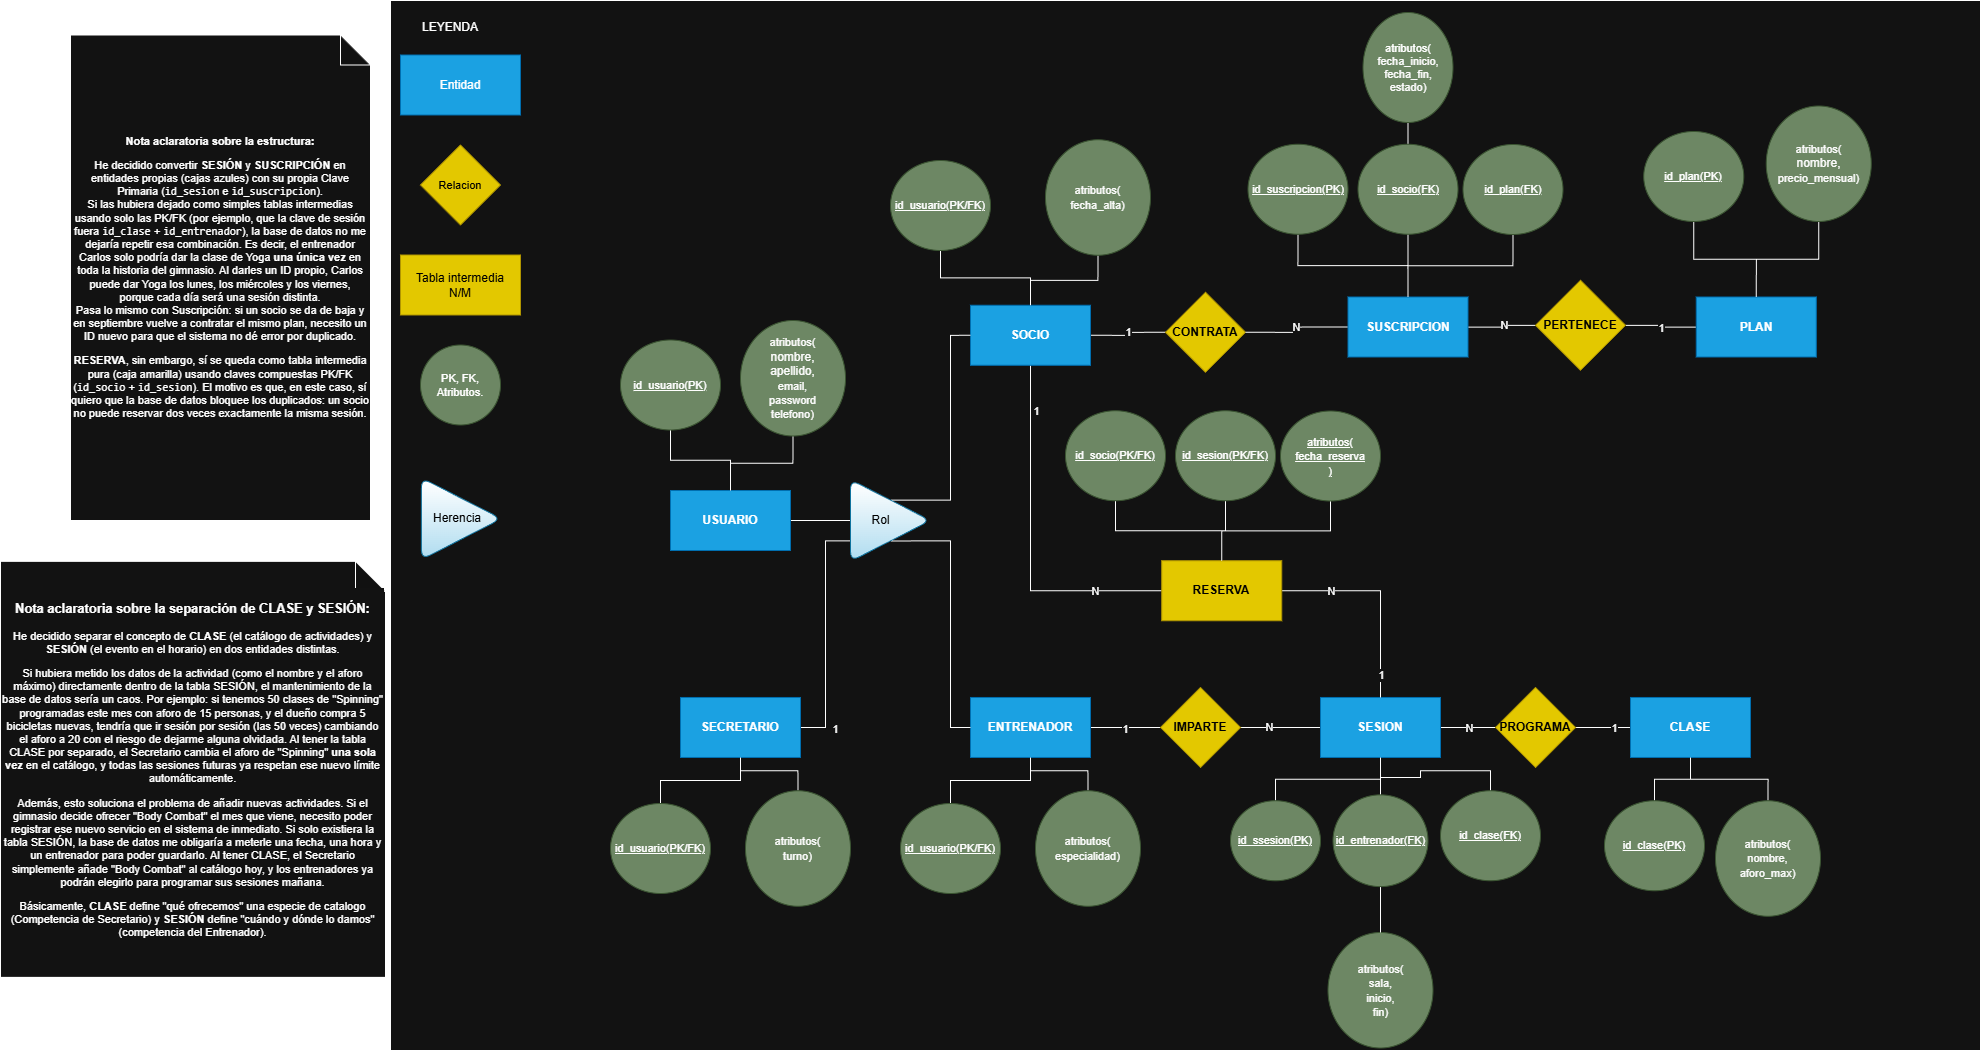
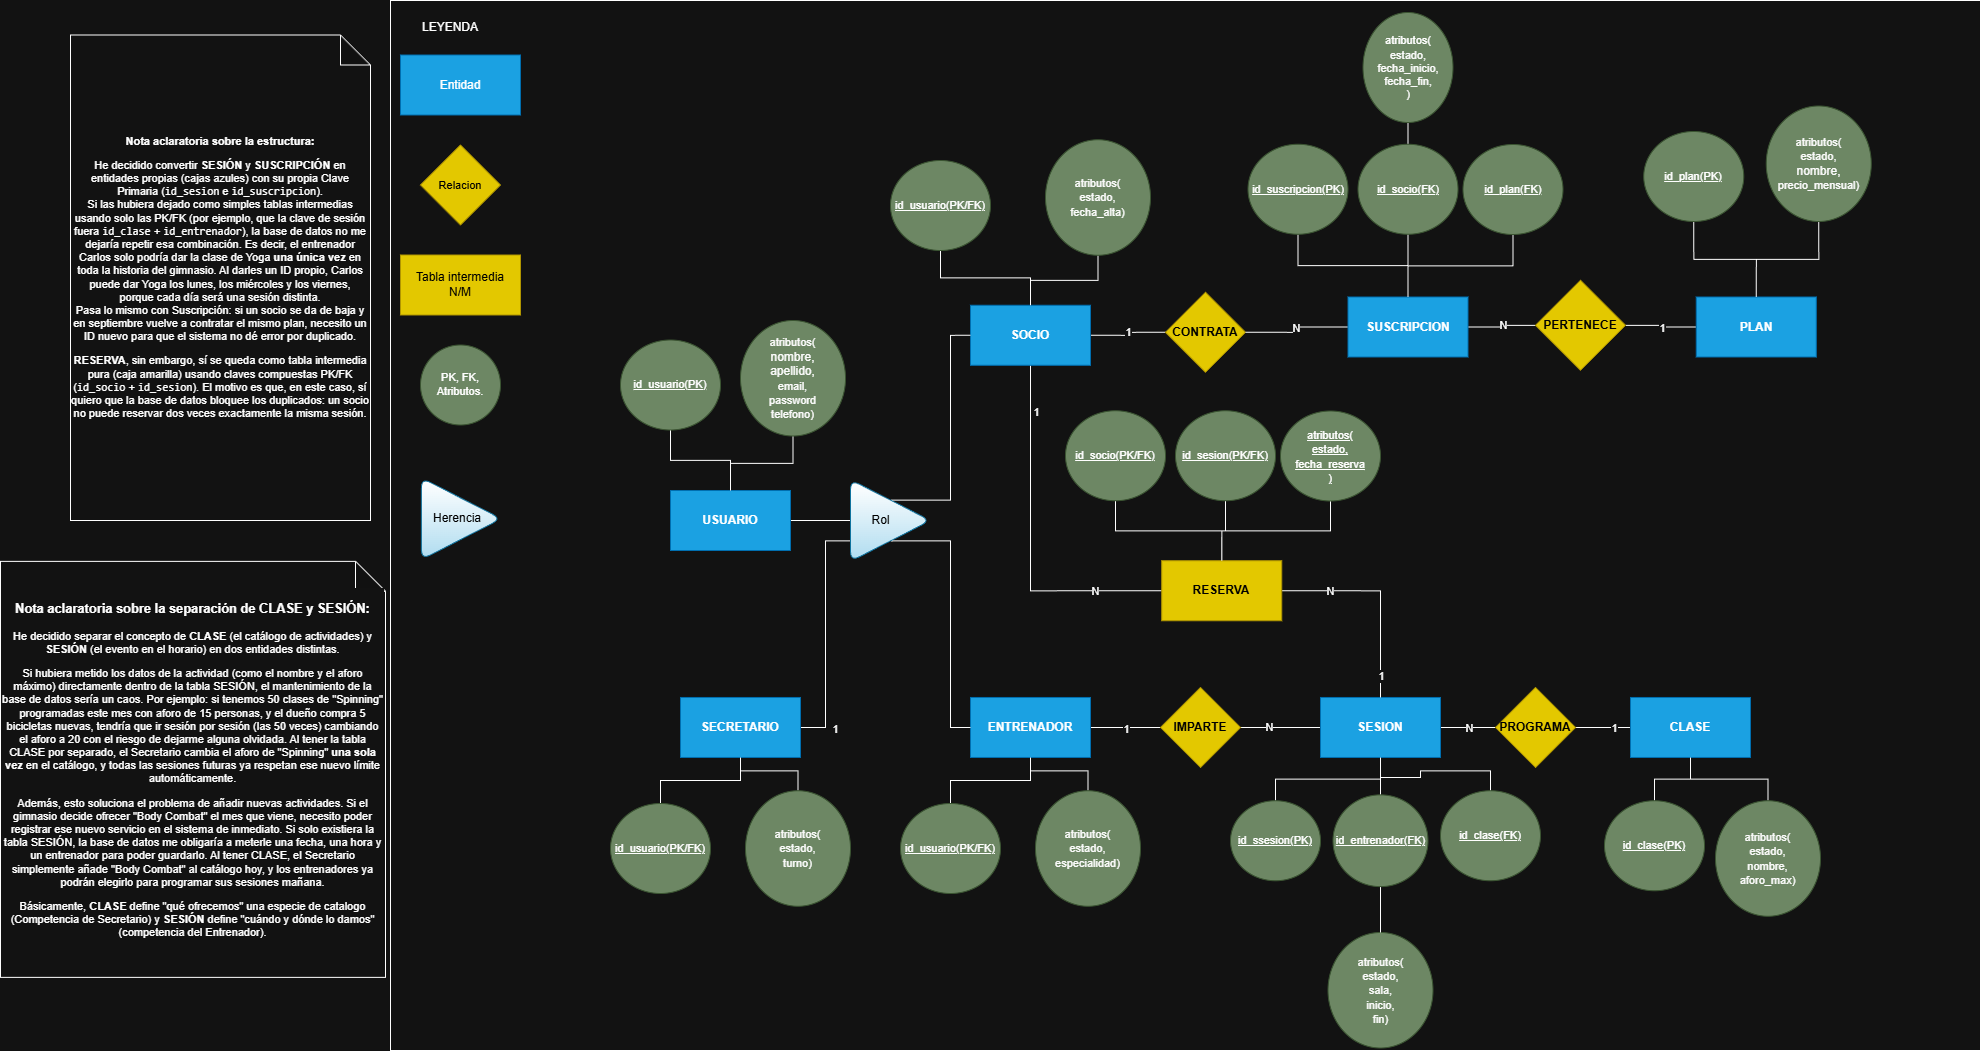
General: sincronización de BD, conexión Singleton y modelo Usuario.
- docs(sql): Sincronizados diagramas ER y Relacional con estado.
-sql(db): Actualizada BD en SUPABASE con los nuevos atributos.
- docs(uml): Actualizado diagrama de clases y añadido diagrama de estados para Suscripción.
- src(ConexionDB): Implementado patrón Singleton en ConexionDB para optimizar peticiones a Supabase.
- src(SchemDB): Creado diccionario de constantes SchemDB.
- src(model): Creado enum EstadoUsuario y actualizado Usuario.

diff --git a/src/GimnasioApp/src/main/java/database/ConexionDB.java b/src/GimnasioApp/src/main/java/database/ConexionDB.java
@@ -7,19 +7,57 @@ import java.sql.SQLException;
 public class ConexionDB {
 
     // Datos de mi base de datos en Supabase
+    // No sabia si guardarla aqui o en el metodo , pero lo veia mas ordenado asi. Y como el metodo era static creo que era mas logico
+    // crearlas static para que no tenga que "llamarlas" cada vez que llamamos al metodo.
+
     private static final String URL = "jdbc:postgresql://aws-1-eu-west-1.pooler.supabase.com:5432/postgres";
     private static final String USUARIO = "postgres.ubgynnvqllswogxuovvw";
     private static final String PASSWORD = "ProyectoIntermodularDAM2026!";
 
+    // La variable estática que guardará la ÚNICA conexión (Patrón Singleton)
+    private static Connection conexion;
+
+
+        //Aqui creamos la conexion con SUPABASE
+    private static void crearConexion() {
+        try {
+            // Intentamos abrir el canal con Supabase
+            conexion = DriverManager.getConnection(URL, USUARIO, PASSWORD);
+            System.out.println("🛜 Conexión con Supabase establecida correctamente (Singleton)");
+
+        } catch (SQLException e) {
+            System.out.println("❌ ERROR: No se ha podido conectar con la base de datos.");
+            System.out.println(e.getMessage());
+        }
+    }
+
+    // 2. Método público para pedir la conexión a la base de datos
+    public static Connection conectar() {
+        // Solo si la conexión es nula (no existe aún), la creamos
+        if (conexion == null) {
+            crearConexion();
+        }
+        // Si ya existe, simplemente devolvemos la que está abierta
+        return conexion;
+    }
+
+
+
+    // Asi estaba hecho antes de ver la forma de Borja, el encasuplamiento es peor, y perdemos el principio de responsabilidad unica. Ahora cada metodo tiene su funcion.
+// La variable estática que guarda la conexión única
+  /*  private static Connection conexion = null;
     // Uso 'static' para poder llamar a este metodo desde cualquier DAO
     // escribiendo simplemente ConexionDB.conectar()
     public static Connection conectar() {
-        Connection conexion = null;
 
+        // 1. Comprobamos si la conexión está vacía o si por algún casual se ha cerrado
         try {
-            // Intentamos abrir el canal con Supabase usando mis credenciales
-            conexion = DriverManager.getConnection(URL, USUARIO, PASSWORD);
+            if (conexion == null || conexion.isClosed()) {
 
+                // Intentamos abrir el canal con Supabase usando mis credenciales
+                conexion = DriverManager.getConnection(URL, USUARIO, PASSWORD);
+                System.out.println("🛜 Conexión con base de datos establecida (Nueva apertura)");
+            }
         } catch (SQLException e) {
             // Si salta esto, suele ser por falta de internet o contraseñas mal puestas
             System.out.println("❌ ERROR: No se ha podido conectar con la base de datos.");
@@ -28,6 +66,8 @@ public class ConexionDB {
 
         // Si todo ha ido bien, devuelve la conexion lista para usarse
         System.out.println("🛜Conexion con base de datos establecida");
+        // 2. PASE LO QUE PASE, devolvemos la conexión (ya sea recién creada o la que ya teníamos)
         return conexion;
-    }
+    }*/
+
 }

diff --git a/src/GimnasioApp/src/main/java/database/SchemDB.java b/src/GimnasioApp/src/main/java/database/SchemDB.java
@@ -1,0 +1,68 @@
+package database;
+
+public interface SchemDB {
+
+    // ================= TABLAS =================
+    String TAB_USUARIO = "usuario";
+    String TAB_SOCIO = "socio";
+    String TAB_ENTRENADOR = "entrenador";
+    String TAB_SECRETARIO = "secretario";
+    String TAB_CLASE = "clase";
+    String TAB_SESION = "sesion";
+    String TAB_PLAN = "plan";
+    String TAB_SUSCRIPCION = "suscripcion";
+    String TAB_RESERVA = "reserva";
+
+    // ================= COLUMNAS USUARIO =================
+    String COL_USUARIO_ID = "id_usuario";
+    String COL_USUARIO_ESTADO = "estado";
+    String COL_USUARIO_NOMBRE = "nombre";
+    String COL_USUARIO_APELLIDO = "apellido";
+    String COL_USUARIO_EMAIL = "email";
+    String COL_USUARIO_PASSWORD = "password";
+    String COL_USUARIO_TELEFONO = "telefono";
+
+    // ================= COLUMNAS SOCIO =================
+    String COL_SOCIO_FECHA_ALTA = "fecha_alta";
+
+    // ================= COLUMNAS ENTRENADOR =================
+    String COL_ENTRENADOR_ESPECIALIDAD = "especialidad";
+
+    // ================= COLUMNAS SECRETARIO =================
+    String COL_SECRETARIO_TURNO = "turno";
+
+    // ================= COLUMNAS CLASE =================
+    String COL_CLASE_ID = "id_clase";
+    String COL_CLASE_NOMBRE = "nombre";
+    String COL_CLASE_ESTADO = "estado";
+    String COL_CLASE_AFORO = "aforo_max";
+
+    // ================= COLUMNAS SESION =================
+    String COL_SESION_ID = "id_sesion";
+    String COL_SESION_ENTRENADOR = "id_entrenador";
+    String COL_SESION_CLASE = "id_clase";
+    String COL_SESION_ESTADO = "estado";
+    String COL_SESION_SALA = "sala";
+    String COL_SESION_INICIO = "inicio";
+    String COL_SESION_FIN = "fin";
+
+    // ================= COLUMNAS PLAN =================
+    String COL_PLAN_ID = "id_plan";
+    String COL_PLAN_ESTADO = "estado";
+    String COL_PLAN_NOMBRE = "nombre";
+    String COL_PLAN_PRECIO = "precio_mensual";
+
+    // ================= COLUMNAS SUSCRIPCION =================
+    String COL_SUSC_ID = "id_suscripcion";
+    String COL_SUSC_PLAN = "id_plan";
+    String COL_SUSC_SOCIO = "id_socio";
+    String COL_SUSC_ESTADO = "estado";
+    String COL_SUSC_INICIO = "fecha_inicio";
+    String COL_SUSC_FIN = "fecha_fin";
+
+    // ================= COLUMNAS RESERVA =================
+    String COL_RES_SOCIO = "id_socio";
+    String COL_RES_SESION = "id_sesion";
+    String COL_RES_ESTADO = "estado";
+    String COL_RES_FECHA = "fecha_reserva";
+}

diff --git a/src/GimnasioApp/src/main/java/model/Usuario.java b/src/GimnasioApp/src/main/java/model/Usuario.java
@@ -4,6 +4,8 @@ import lombok.Getter;
 import lombok.Setter;
 import lombok.NoArgsConstructor;
 import lombok.AllArgsConstructor;
+import model.enums.EstadoUsuario;
+
 
 @Getter
 @Setter
@@ -13,6 +15,7 @@ public abstract class Usuario {
 
 
     private int idUsuario;
+    private EstadoUsuario estado;
     private String nombre;
     private String apellido;
     private String email;

diff --git a/src/GimnasioApp/src/main/java/model/enums/EstadoUsuario.java b/src/GimnasioApp/src/main/java/model/enums/EstadoUsuario.java
@@ -1,0 +1,6 @@
+package model.enums;
+
+public enum EstadoUsuario {
+    ACTIVO,
+    INACTIVO
+}
